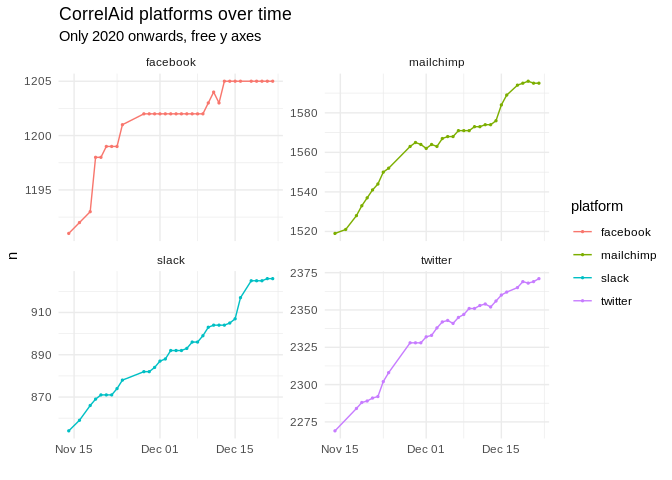
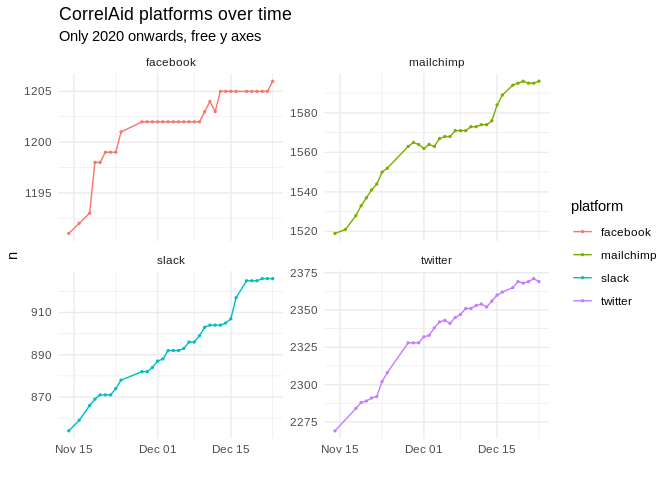
🤖 CRON - update daily data

diff --git a/README.md b/README.md
@@ -25,8 +25,8 @@ count and general network data on a daily basis using
 
 ### Plots
 
-*last updated*: 2020-12-22
-23:50:12
+*last updated*: 2020-12-23
+23:50:13
 
 ![](README_files/figure-gfm/plot-alltime-1.png)<!-- -->
 
